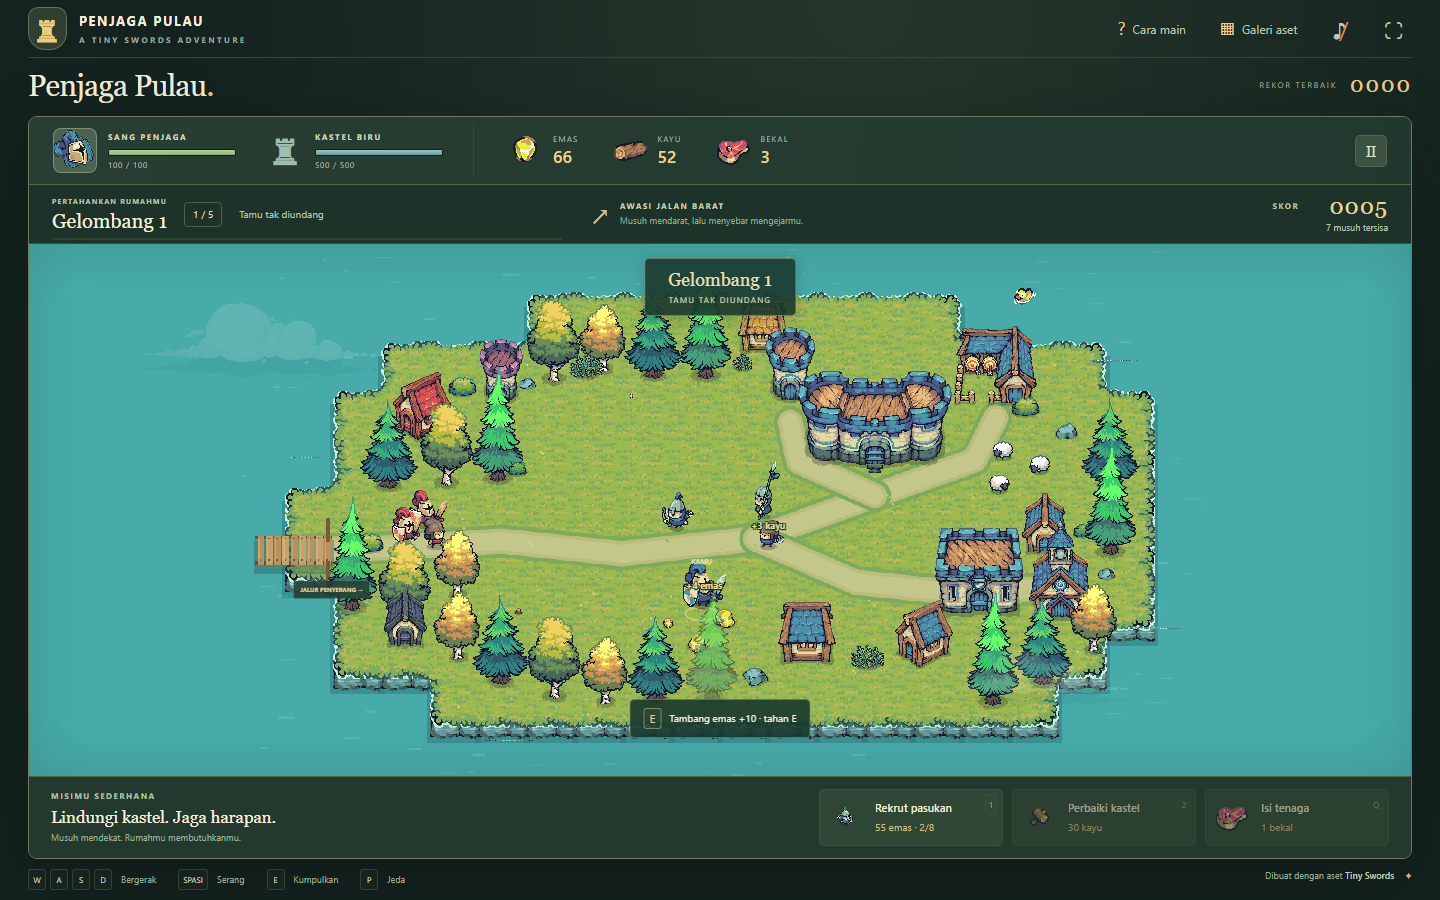
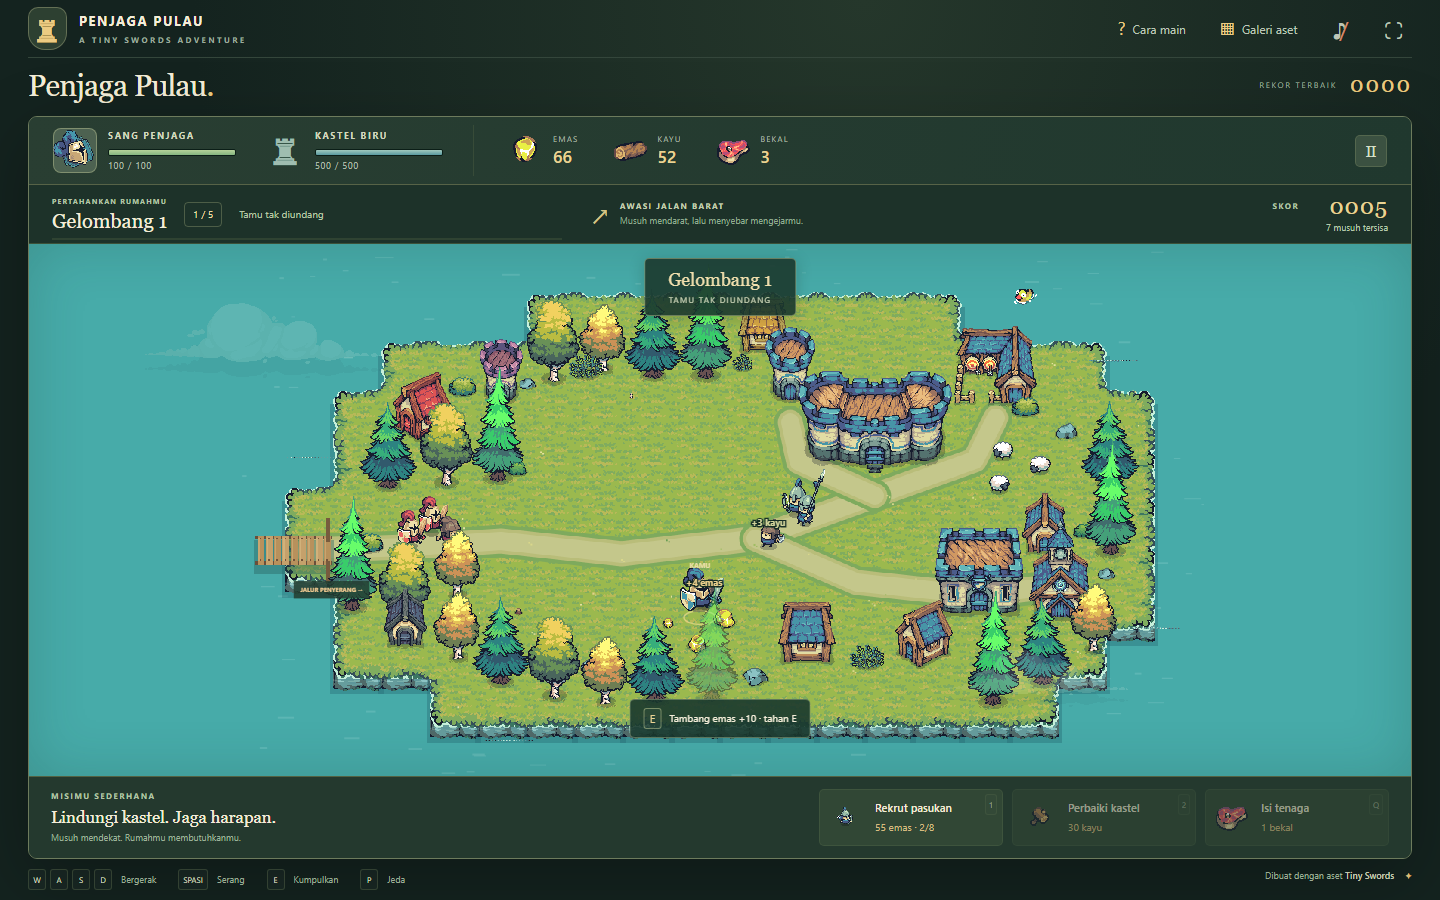
fixing bug/error

diff --git a/game.js b/game.js
@@ -24,7 +24,7 @@
     { name: 'Hujan panah', color: 'Purple', count: 10, interval: 1.65, types: ['Warrior', 'Archer', 'Lancer'] },
     { name: 'Pasukan matahari', color: 'Yellow', count: 13, interval: 1.5, types: ['Lancer', 'Warrior', 'Archer', 'Monk'] },
     { name: 'Bayangan di dermaga', color: 'Black', count: 16, interval: 1.35, types: ['Warrior', 'Lancer', 'Archer', 'Monk'] },
-    { name: 'Pertahanan terakhir', color: 'Black', count: 22, interval: 1.1, types: ['Warrior', 'Lancer', 'Archer', 'Monk', 'Pawn'] },
+    { name: 'Pertahanan terakhir', color: 'Black', count: 20, interval: 1.1, types: ['Warrior', 'Lancer', 'Archer', 'Monk', 'Pawn'] },
   ];
   let state = 'loading', phase = 'prepare', waveIndex = 0, waveTimer = 22, spawned = 0, spawnTimer = 0;
   let gold = 80, wood = 40, food = 3, score = 0, kills = 0, recruitIndex = 0;
@@ -53,8 +53,8 @@
   function translateEntity(entity, dx, dy) {
     const steps = Math.max(1, Math.ceil(Math.hypot(dx, dy) / 4));
     for (let i = 0; i < steps; i++) {
-      if (canStand(entity.x + dx / steps, entity.y)) entity.x += dx / steps;
-      if (canStand(entity.x, entity.y + dy / steps)) entity.y += dy / steps;
+      if (positionFits(entity.x + dx / steps, entity.y, entity)) entity.x += dx / steps;
+      if (positionFits(entity.x, entity.y + dy / steps, entity)) entity.y += dy / steps;
     }
   }
   function keepOnLand(entity) {
@@ -93,6 +93,45 @@
   const bushes = [[299, 216, 1], [372, 323, 2], [464, 191, 3], [670, 183, 4], [1044, 243, 1], [1120, 405, 2], [836, 575, 3], [550, 582, 4], [176, 423, 1]];
   const villagers = [{ x: 704, y: 414, tool: 'Axe', type: 'wood', facing: -1 }, { x: 619, y: 493, tool: 'Pickaxe', type: 'gold', facing: -1 }];
   const obstacleList = [...trees.map(t => ({ x: t.x, y: t.y - 4, radius: t.radius })), ...goldNodes, ...buildings.map(b => ({ x: b.x, y: b.cy, radius: b.radius }))];
+  function positionFits(x, y, entity) {
+    if (!canStand(x, y)) return false;
+    return obstacleList.every(o => {
+      const next = Math.hypot(x - o.x, y - o.y), radius = o.radius + 10;
+      // An overlapping spawn can slide out, but cannot go deeper into a collider.
+      return next >= radius - .01 || (entity && next > Math.hypot(entity.x - o.x, entity.y - o.y) + .001);
+    });
+  }
+  function clearPath(a, b) {
+    const steps = Math.max(1, Math.ceil(dist(a, b) / 12));
+    for (let i = 1; i <= steps; i++) if (!positionFits(a.x + (b.x - a.x) * i / steps, a.y + (b.y - a.y) * i / steps)) return false;
+    return true;
+  }
+  const navCols = 40, navRows = 22;
+  const navNodes = Array.from({ length: navCols * navRows }, (_, i) => ({ x: i % navCols * 32 + 16, y: Math.floor(i / navCols) * 32 + 16 }));
+  const navOpen = navNodes.map(p => positionFits(p.x, p.y));
+  function routeTo(a, b) {
+    const closest = p => {
+      let index = -1, best = Infinity;
+      navNodes.forEach((n, i) => { if (navOpen[i]) { const d = dist(p, n); if (d < best && clearPath(p, n)) { index = i; best = d; } } });
+      return index;
+    };
+    const start = closest(a);
+    // Targets may stand against a collider; use the nearest reachable cell.
+    let goal = -1, best = Infinity;
+    navNodes.forEach((n, i) => { const d = dist(n, b); if (navOpen[i] && d < best) { goal = i; best = d; } });
+    if (start < 0 || goal < 0) return [];
+    const queue = [start], previous = new Int32Array(navNodes.length).fill(-1); previous[start] = start;
+    for (let head = 0; head < queue.length && previous[goal] < 0; head++) {
+      const i = queue[head];
+      for (const j of [i - navCols, i + navCols, i % navCols ? i - 1 : -1, i % navCols < navCols - 1 ? i + 1 : -1]) {
+        if (j < 0 || j >= navNodes.length || !navOpen[j] || previous[j] >= 0 || !clearPath(navNodes[i], navNodes[j])) continue;
+        previous[j] = i; queue.push(j);
+      }
+    }
+    if (previous[goal] < 0) return [];
+    const path = []; for (let i = goal; i !== start; i = previous[i]) path.unshift(navNodes[i]);
+    return path;
+  }
 
   function loadImage(path) {
     if (images.has(path)) return images.get(path).promise;
@@ -263,15 +302,16 @@
       ctx.strokeStyle = '#f5df9a99'; ctx.lineWidth = 2;
       ctx.beginPath(); ctx.ellipse(u.x, u.y - 4, 21, 9, 0, 0, Math.PI * 2); ctx.stroke();
     }
-    const path = unitPath(color, kind, action), age = u.attack > 0 ? (u.attackDuration || .4) - u.attack : animTime + (u.seed || 0);
-    drawSprite(path, u.x, u.y, size, age, u.attack > 0 ? 11 : 9, u.facing, alpha, u.attack > 0);
-    if (u.hitFlash > 0) drawSprite(path, u.x, u.y, size, age, u.attack > 0 ? 11 : 9, u.facing, Math.min(.92, u.hitFlash / .15), u.attack > 0, true);
+    const path = unitPath(color, kind, action), age = u.attack > 0 ? (u.attackDuration || .4) - u.attack : (u.animTime || 0);
+    const fps = u.attack > 0 ? spriteFrame(path).count / (u.attackDuration || .4) : 9;
+    drawSprite(path, u.x, u.y, size, age, fps, u.facing, alpha, u.attack > 0);
+    if (u.hitFlash > 0) drawSprite(path, u.x, u.y, size, age, fps, u.facing, Math.min(.92, u.hitFlash / .15), u.attack > 0, true);
     if (u.attack > 0 && age > .07 && age < .29 && !['Archer', 'Monk'].includes(kind)) {
       ctx.save(); ctx.translate(u.x, u.y - 23); ctx.scale(u.facing, 1);
       ctx.strokeStyle = isHero ? '#fff1c7cc' : u.team === 'enemy' ? '#ffc49ba8' : '#d4f5ddb0';
       ctx.lineWidth = isHero ? 4 : 3; ctx.lineCap = 'round';
       const progress = (age - .07) / .22;
-      ctx.beginPath(); ctx.arc(0, 0, isHero ? 66 : 43, -.95 + progress * .8, -.25 + progress * 1.45); ctx.stroke(); ctx.restore();
+      ctx.beginPath(); ctx.arc(0, 0, isHero ? 76 : kind === 'Lancer' ? 77 : 43, -1.45, 1.45 * progress); ctx.stroke(); ctx.restore();
     }
     if ((!isHero && u.hp < u.maxHp) || (isHero && u.hitFlash > 0)) healthBar(u.x, u.y - 55, u.hp, u.maxHp, u.team === 'enemy' ? '#ef9a7a' : '#a9dda9', isHero ? 43 : 35);
     if (isHero) { ctx.fillStyle = '#e9dda7'; ctx.font = 'bold 9px Segoe UI'; ctx.textAlign = 'center'; ctx.fillText('KAMU', u.x, u.y - 70); }
@@ -345,7 +385,7 @@
       }
       ctx.restore();
     }
-    for (const f of floaters) { ctx.globalAlpha = Math.min(1, f.life * 2); ctx.font = `bold ${f.large ? 16 : 12}px Segoe UI`; ctx.textAlign = 'center'; ctx.strokeStyle = '#183d2c'; ctx.lineWidth = 3; ctx.strokeText(f.text, f.x, f.y); ctx.fillStyle = f.color; ctx.fillText(f.text, f.x, f.y); }
+    for (const f of floaters) { ctx.globalAlpha = Math.min(1, f.life * 2); ctx.font = `bold ${f.large ? 17 : 12}px Segoe UI`; ctx.textAlign = 'center'; ctx.strokeStyle = '#142c23'; ctx.lineWidth = 4; ctx.strokeText(f.text, f.x, f.y); ctx.fillStyle = f.color; ctx.fillText(f.text, f.x, f.y); }
     ctx.globalAlpha = 1;
     if (state === 'playing' && phase === 'battle') {
       ctx.fillStyle = '#233d31dc'; ctx.fillRect(76, 446, 100, 23);
@@ -363,7 +403,15 @@
 
   const reducedMotion = matchMedia('(prefers-reduced-motion: reduce)').matches;
   function addEffect(path, x, y, size = 90, life = .55, fps = 14) { effects.push({ path, x, y, size, life, time: 0, fps }); }
-  function float(text, x, y, color = '#f4d790', large = false) { floaters.push({ text, x, y: y - 30, life: 1.05, color, large }); }
+  function float(text, x, y, color = '#f4d790', large = false) {
+    let fy = y - 30;
+    for (let attempts = 0; attempts < 5; attempts++) {
+      if (!floaters.some(f => Math.abs(f.x - x) < 40 && Math.abs(f.y - fy) < 18)) break;
+      fy -= 18;
+    }
+    floaters.push({ text, x, y: fy, life: large ? .8 : .9, color, large });
+    if (floaters.length > 35) floaters.shift();
+  }
   function notify(text) { $('toast').textContent = text; $('toast').classList.add('show'); toastTimer = 3; }
   function announce(title, subtitle) {
     $('announcement').replaceChildren(document.createTextNode(title));
@@ -381,16 +429,26 @@
     const len = Math.hypot(dx, dy); entity.moving = len > .05;
     if (!entity.moving) return;
     translateEntity(entity, dx / len * speed * dt, dy / len * speed * dt);
-    if (Math.abs(dx) > .1) entity.facing = dx > 0 ? 1 : -1;
+    if (Math.abs(dx) > .1 && !(entity.attack > 0) && !(entity.stagger > 0)) entity.facing = dx > 0 ? 1 : -1;
     for (const o of obstacleList) {
       const vx = entity.x - o.x, vy = entity.y - o.y, d = Math.hypot(vx, vy), min = o.radius + 10;
       if (d < min && d > .01) {
         const px = o.x + vx / d * min, py = o.y + vy / d * min;
-        if (canStand(px, py)) { entity.x = px; entity.y = py; }
+        translateEntity(entity, px - entity.x, py - entity.y);
       }
     }
   }
   function steerMove(entity, target, dt, speed = entity.speed) {
+    entity.routeTimer = (entity.routeTimer || 0) - dt;
+    if (!clearPath(entity, target)) {
+      if (entity.routeTimer <= 0 || !entity.routeTarget || dist(entity.routeTarget, target) > 64) {
+        entity.route = routeTo(entity, target); entity.routeTimer = .9; entity.routeTarget = { ...target };
+      }
+      const path = entity.route || [];
+      while (path.length && dist(entity, path[0]) < 12) path.shift();
+      while (path.length > 1 && clearPath(entity, path[1])) path.shift();
+      if (path.length) { move(entity, path[0].x - entity.x, path[0].y - entity.y, dt, speed); return; }
+    } else entity.route = [];
     let dx = target.x - entity.x, dy = target.y - entity.y;
     const distance = Math.hypot(dx, dy); if (distance < 3) { entity.moving = false; return; }
     dx /= distance; dy /= distance;
@@ -409,7 +467,9 @@
     entity.stagger = Math.max(0, (entity.stagger || 0) - dt);
     if (Math.hypot(entity.knockX || 0, entity.knockY || 0) > 5) {
       const speed = Math.hypot(entity.knockX, entity.knockY);
+      const facing = entity.facing;
       move(entity, entity.knockX, entity.knockY, dt, speed);
+      entity.facing = facing;
       const decay = Math.exp(-19 * dt); entity.knockX *= decay; entity.knockY *= decay;
     }
   }
@@ -417,7 +477,7 @@
   function startGame() {
     if (!initialized) return;
     Object.assign(hero, { x: 788, y: 370, hp: 100, facing: 1, attack: 0, cooldown: 0, invuln: 0, moving: false, hitFlash: 0, stagger: 0, knockX: 0, knockY: 0, strike: null });
-    hero.work = null;
+    hero.work = null; hero.healCooldown = 0; hero.animTime = 0; hero.animState = 'Idle';
     castle.hp = 500; castle.hitFlash = 0; gold = 80; wood = 40; food = 3; score = 0; kills = 0; recruitIndex = 0;
     enemies = []; allies = []; effects = []; floaters = []; drops = []; projectiles = []; impacts = []; hitStop = 0; damageDealt = 0; damageTaken = 0;
     for (const s of sheep) s.cooldown = 0;
@@ -492,9 +552,11 @@
   }
   function healHero() {
     if (state !== 'playing') return;
+    if (hero.healCooldown > 0) return;
     if (hero.hp >= 100) { notify('Tenagamu masih penuh.'); return; }
     if (food < 1) { notify('Bekal habis. Dekati domba lalu tekan E.'); return; }
-    food--; hero.hp = Math.min(100, hero.hp + 45); float('+45', hero.x, hero.y, '#c6eea1', true);
+    const restored = Math.min(45, 100 - hero.hp);
+    food--; hero.healCooldown = 1.8; hero.hp += restored; float(`+${Math.ceil(restored)}`, hero.x, hero.y, '#c6eea1', true);
     addEffect(blue('Monk', 'Heal_Effect'), hero.x, hero.y, 140, .8); tone(587, .25); updateUI();
   }
   function nearestResource() {
@@ -505,7 +567,7 @@
     return closest;
   }
   function gather() {
-    if (state !== 'playing' || gatherCooldown > 0 || hero.work || hero.attack > 0 || hero.stagger > 0) return;
+    if (state !== 'playing' || gatherCooldown > 0 || hero.work || hero.attack > 0 || hero.stagger > 0 || hero.moving) return;
     const node = nearestResource(); if (!node) return;
     hero.work = { node, elapsed: 0, duration: node.type === 'food' ? .7 : .9 };
     hero.facing = node.x < hero.x ? -1 : 1; hero.moving = false;
@@ -537,7 +599,7 @@
     target.hitFlash = .18;
     const angle = source ? Math.atan2(target.y - source.y, target.x - source.x) : rand(0, Math.PI * 2);
     impacts.push({ x: target.x, y: target.y - (target === castle ? 40 : 27), angle, color: target === hero || target.team === 'ally' ? '#ff977d' : '#ffdb86', life: .3, duration: .3 });
-    float(`−${amount}`, target.x + rand(-7, 7), target.y - (target === castle ? 45 : 10), target === hero ? '#ffbaa1' : '#fff1c5', true);
+    float(`−${Math.ceil(appliedDamage)}`, target.x, target.y - (target === castle ? 45 : 10), target === hero ? '#ffbaa1' : '#fff1c5', true);
     if (target === hero) {
       hero.invuln = .45; shake = Math.max(shake, 3); $('gameShell').classList.add('player-hit'); tone(150, .12, 'triangle', .035, 75);
     } else if (target === castle) { shake = Math.max(shake, 2); addEffect('Particle FX/Explosion_02.png', castle.x + rand(-45, 45), castle.y - 20, 65, .35, 24); }
@@ -548,6 +610,7 @@
       target.knockX = Math.cos(angle) * force; target.knockY = Math.sin(angle) * force;
       target.stagger = target === hero ? .09 : .12;
       target.strike = null;
+      target.attack = 0;
     }
     if (target.hp <= 0 && target.team === 'enemy' && !target.dead) {
       target.dead = true; kills++; score += 25 + waveIndex * 5; gold += 6;
@@ -561,9 +624,9 @@
     if (hero.cooldown > 0 || hero.stagger > 0) return;
     hero.work = null;
     hero.attack = hero.attackDuration = .42; hero.cooldown = .58;
-    const targets = enemies.filter(e => e.hp > 0 && dist(hero, e) < 108);
+    const targets = enemies.filter(e => e.hp > 0 && dist(hero, e) < 94).sort((a, b) => dist(hero, a) - dist(hero, b));
     if (targets.length) hero.facing = targets[0].x < hero.x ? -1 : 1;
-    hero.strike = { timer: .12 };
+    hero.strike = { timer: .21 };
     tone(380, .1, 'triangle', .018, 110);
   }
   function fireArrow(u, target) {
@@ -575,6 +638,11 @@
     for (const other of candidates) { if (other.hp <= 0) continue; const d = dist(entity, other); if (d < limit) { limit = d; target = other; } }
     return target;
   }
+  function segmentHit(a, b, target, radius) {
+    const dx = b.x - a.x, dy = b.y - a.y, length = dx * dx + dy * dy;
+    const t = length ? clamp(((target.x - a.x) * dx + (target.y - a.y) * dy) / length, 0, 1) : 0;
+    return Math.hypot(a.x + dx * t - target.x, a.y + dy * t - target.y) <= radius ? t : Infinity;
+  }
   function updateUnit(u, dt) {
     u.attack = Math.max(0, u.attack - dt); u.cooldown -= dt;
     u.chargeCooldown = (u.chargeCooldown || 0) - dt; u.charge = Math.max(0, (u.charge || 0) - dt);
@@ -583,13 +651,14 @@
       u.strike.timer -= dt;
       if (u.strike.timer <= 0) {
         const strike = u.strike; u.strike = null;
-        if (strike.target.hp > 0 && dist(u, strike.target) <= strike.range + 22) {
+        if (strike.target.hp > 0 && dist(u, strike.target) <= strike.range && (u.kind === 'Archer' || ((strike.target.x - u.x) * u.facing >= -12 && clearPath(u, strike.target)))) {
           if (u.kind === 'Archer') fireArrow(u, strike.target);
           else hurt(strike.target, strike.damage, u);
         }
       }
     }
     if (u.stagger > 0) { u.moving = false; return; }
+    if (u.strike) { u.moving = false; return; }
     if (u.entering) {
       const exit = { x: 231, y: 402 + u.lane * 13 };
       if (dist(u, exit) < 22) u.entering = false;
@@ -600,9 +669,10 @@
       const wounded = nearest(u, friends.filter(f => f !== u && f.hp < f.maxHp), 220);
       const home = u.team === 'ally' ? { x: hero.x + 55, y: hero.y + 45 } : { x: hero.x - 130, y: hero.y + Math.sin(u.flankAngle) * 90 };
       if (wounded && dist(u, wounded) < 140 && u.cooldown <= 0) {
-        wounded.hp = Math.min(wounded.maxHp, wounded.hp + (u.team === 'ally' ? 20 : 12));
+        const healed = Math.min(wounded.maxHp - wounded.hp, u.team === 'ally' ? 16 : 12);
+        wounded.hp += healed;
         u.attack = u.attackDuration = .45; u.cooldown = u.team === 'ally' ? 3 : 4.5;
-        addEffect(blue('Monk', 'Heal_Effect'), wounded.x, wounded.y, 110, .7); float(u.team === 'ally' ? '+20' : '+12', wounded.x, wounded.y, '#ceefa0'); u.moving = false;
+        addEffect(blue('Monk', 'Heal_Effect'), wounded.x, wounded.y, 110, .7); float(`+${Math.ceil(healed)}`, wounded.x, wounded.y, '#ceefa0'); u.moving = false;
       } else if (dist(u, wounded || home) > 100) steerMove(u, wounded || home, dt);
       else u.moving = false;
       return;
@@ -623,7 +693,7 @@
       const aim = { x: target.x + Math.cos(angle) * radius, y: target.y + Math.sin(angle) * radius };
       steerMove(u, canStand(aim.x, aim.y) ? aim : target, dt, u.speed * (u.charge > 0 ? 1.5 : 1));
     } else {
-      u.moving = false; u.facing = target.x < u.x ? -1 : 1;
+      u.moving = false; if (u.attack <= 0) u.facing = target.x < u.x ? -1 : 1;
       if (u.cooldown <= 0) {
         u.attack = u.attackDuration = u.kind === 'Archer' ? .72 : .4; u.cooldown = u.kind === 'Archer' ? 1.6 : u.team === 'ally' ? .9 : Math.max(.85, 1.25 - waveIndex * .08);
         u.strike = { timer: u.kind === 'Archer' ? .31 : u.kind === 'Lancer' ? .24 : .2, target, range, damage: u.team === 'ally' ? 18 : (target === castle ? 13 : u.kind === 'Lancer' ? 13 : 10) + waveIndex * 2 };
@@ -636,6 +706,7 @@
     if (castle.hp <= 0 || hero.hp <= 0) { finish(false); return; }
     if (hitStop > 0) { hitStop -= dt; return; }
     elapsed += dt; gatherCooldown = Math.max(0, gatherCooldown - dt); hero.cooldown = Math.max(0, hero.cooldown - dt); hero.attack = Math.max(0, hero.attack - dt); hero.invuln = Math.max(0, hero.invuln - dt);
+    hero.healCooldown = Math.max(0, hero.healCooldown - dt);
     for (const u of [hero, ...allies, ...enemies]) updateReaction(u, dt);
     castle.hitFlash = Math.max(0, (castle.hitFlash || 0) - dt);
     $('gameShell').classList.toggle('player-hit', hero.hitFlash > 0);
@@ -643,7 +714,7 @@
       hero.strike.timer -= dt;
       if (hero.strike.timer <= 0) {
         hero.strike = null;
-        const targets = enemies.filter(e => e.hp > 0 && dist(hero, e) < 94 && (e.x - hero.x) * hero.facing >= -12).sort((a, b) => dist(hero, a) - dist(hero, b)).slice(0, 3);
+        const targets = enemies.filter(e => e.hp > 0 && dist(hero, e) < 94 && (e.x - hero.x) * hero.facing >= -12 && clearPath(hero, e)).sort((a, b) => dist(hero, a) - dist(hero, b)).slice(0, 3);
         targets.forEach((e, i) => hurt(e, i === 0 ? 27 : 18, hero));
       }
     }
@@ -668,12 +739,17 @@
     // Soft separation keeps soldiers from drawing exactly on top of one another.
     for (const group of [allies, enemies]) for (let i = 0; i < group.length; i++) for (let j = i + 1; j < group.length; j++) {
       const a = group[i], b = group[j], d = dist(a, b);
-      if (d > .1 && d < 31) { const push = (31 - d) * Math.min(.45, dt * 7), px = (a.x - b.x) / d * push, py = (a.y - b.y) / d * push; translateEntity(a, px, py); translateEntity(b, -px, -py); }
+      if (d < 31) { const push = (31 - d) * Math.min(.25, dt * 5), angle = (i + j * 3) * 2.399963, px = (d > .01 ? (a.x - b.x) / d : Math.cos(angle)) * push, py = (d > .01 ? (a.y - b.y) / d : Math.sin(angle)) * push; translateEntity(a, px, py); translateEntity(b, -px, -py); }
     }
     for (const p of projectiles) {
+      const previous = { x: p.x, y: p.y };
       p.life -= dt; p.x += p.vx * dt; p.y += p.vy * dt;
       const candidates = p.team === 'ally' ? enemies : [hero, ...allies, castle];
-      for (const target of candidates) if (target.hp > 0 && dist(p, target) < (target === castle ? 57 : 22)) { hurt(target, p.damage, p.source); p.life = 0; addEffect('Particle FX/Dust_01.png', p.x, p.y, 32, .25); break; }
+      const hits = candidates.filter(target => target.hp > 0).map(target => ({ target, t: segmentHit(previous, p, target, target === castle ? 57 : 20) })).filter(hit => Number.isFinite(hit.t)).sort((a, b) => a.t - b.t);
+      if (hits.length) {
+        const hit = hits[0]; p.x = previous.x + (p.x - previous.x) * hit.t; p.y = previous.y + (p.y - previous.y) * hit.t;
+        hurt(hit.target, p.damage, p.source); p.life = 0; addEffect('Particle FX/Dust_01.png', p.x, p.y, 32, .25);
+      }
     }
     projectiles = projectiles.filter(p => p.life > 0); enemies = enemies.filter(u => u.hp > 0); allies = allies.filter(u => u.hp > 0);
     for (const d of drops) {
@@ -683,6 +759,11 @@
       if (distance < 30) { if (d.type === 'wood') wood += d.value; else gold += d.value; float(`+${d.value}`, hero.x, hero.y - 12); d.life = 0; }
     }
     drops = drops.filter(d => d.life > 0);
+    for (const u of [hero, ...allies, ...enemies]) {
+      const animState = u.work ? 'Work' : u.stagger > 0 ? 'Hurt' : u.attack > 0 ? 'Attack' : u.moving ? 'Run' : 'Idle';
+      if (u.animState !== animState) { u.animState = animState; u.animTime = 0; }
+      else u.animTime = (u.animTime || 0) + dt;
+    }
     passiveTimer += dt;
     if (passiveTimer >= 6) { passiveTimer = 0; wood += 3; gold += 4; float('+3 kayu', villagers[0].x, villagers[0].y, '#dbdca0'); float('+4 emas', villagers[1].x, villagers[1].y); }
     if (castle.hp <= 0 || hero.hp <= 0) { finish(false); return; }

diff --git a/layout.css b/layout.css
@@ -75,6 +75,8 @@
   border: 2px solid #ff917a9c;
   transition: opacity 90ms ease-out;
 }
+.is-playing .health-number { font-size: 9px; }
+.is-playing .hud-label { font-size: 9px; }
 .player-hit .damage-flash { opacity: .8; }
 .announcement {
   top: 14px;
@@ -144,7 +146,8 @@
   .is-playing .resource { min-width: 39px; }
   .is-playing .resource img { width: 26px; height: 28px; }
   .is-playing .resource strong { font-size: 12px; }
-  .is-playing .resource div > span { font-size: 5px; }
+  .is-playing .resource div > span { font-size: 7px; }
+  .is-playing .health-number { font-size: 7px; }
   .is-playing .food-resource { display: flex; }
   .is-playing .pause-button { margin-left: auto; flex-shrink: 0; width: 26px; }
   .battle-status { height: 52px; gap: 16px; padding: 8px 12px; }

diff --git a/README.md b/README.md
@@ -77,3 +77,11 @@ Hak dan lisensi aset mengikuti paket Tiny Swords aslinya.
 - Tahan E dekat pohon atau tambang untuk memainkan animasi kapak/beliung. Domba memakai animasi membawa bekal. Bar progres, debu, dan suara benturan menandai aksi; sumber daya diberikan setelah selesai. Bergerak, menyerang, atau terkena pukulan membatalkan pekerjaan yang belum selesai.
 - Pemanah lawan mundur ketika didekati, penombak memiliki jangkauan lebih jauh, dan ksatria merangsek lebih cepat secara berkala. Gelombang lanjut menaikkan nyawa, kecepatan, damage, dan laju kedatangan musuh.
 - Pedang kini mengenai maksimal tiga sasaran di depan penjaga, dengan damage lebih kecil pada sasaran tambahan. Gerakan melambat saat mengayun sehingga waktu menyerang lebih berarti.
+
+## Perapian konsistensi permainan
+
+- Tabrakan pohon/bangunan diperiksa sepanjang gerakan; dorongan tidak membalik arah ayunan. Pasukan mencari jalur mengitari penghalang dan dipisahkan perlahan ketika menumpuk.
+- Damage pedang mengikuti bagian ayunan yang mengenai sasaran. Serangan jarak dekat tidak menembus penghalang; panah memeriksa seluruh lintasan antar-frame agar tidak melewati sasaran.
+- Pemanah berhenti sejenak saat membidik. Animasi menyelesaikan seluruh frame serangan, dan animasi berjalan/diam dimulai dari transisi yang sesuai. Pekerjaan tidak dimulai kembali selama pemain bergerak.
+- Bekal memiliki jeda pemakaian 1,8 detik; biarawan sekutu memulihkan 16 HP. Gelombang terakhir berisi 20 musuh agar kenaikan tekanan lebih bertahap.
+- Angka damage menampilkan HP yang benar-benar berkurang, diberi jarak vertikal, dan dibatasi jumlahnya. Teks status diperjelas pada layar kecil.
